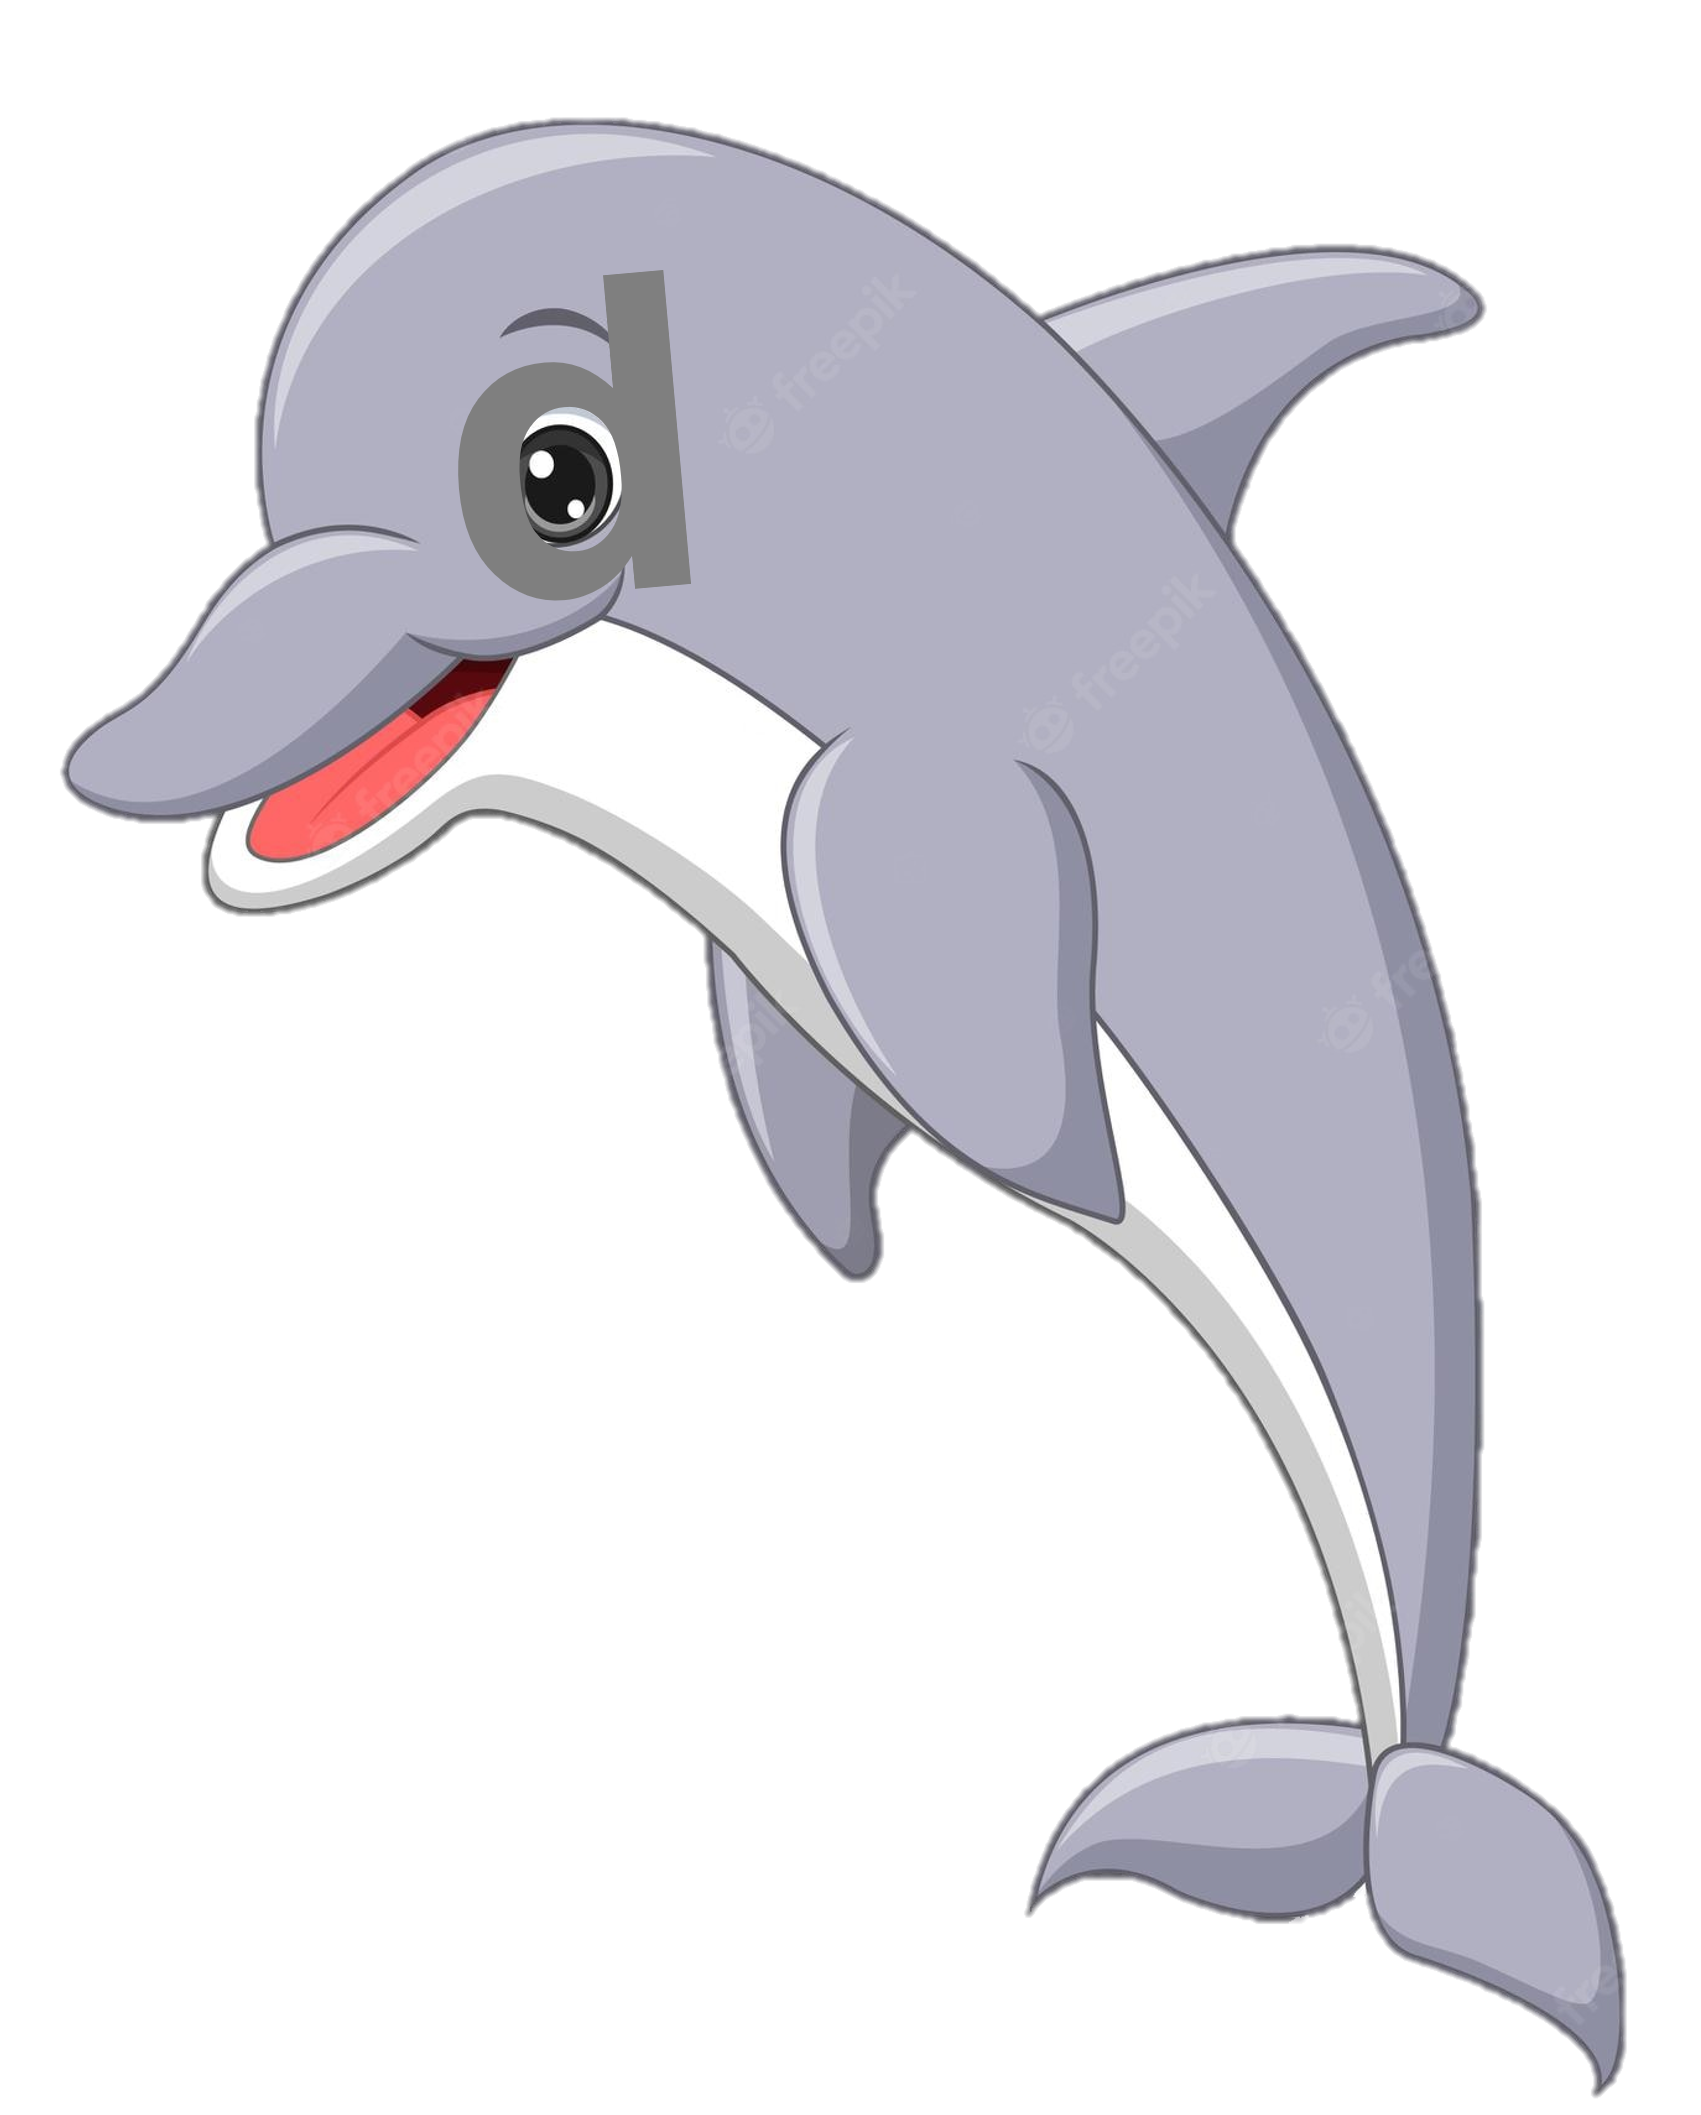
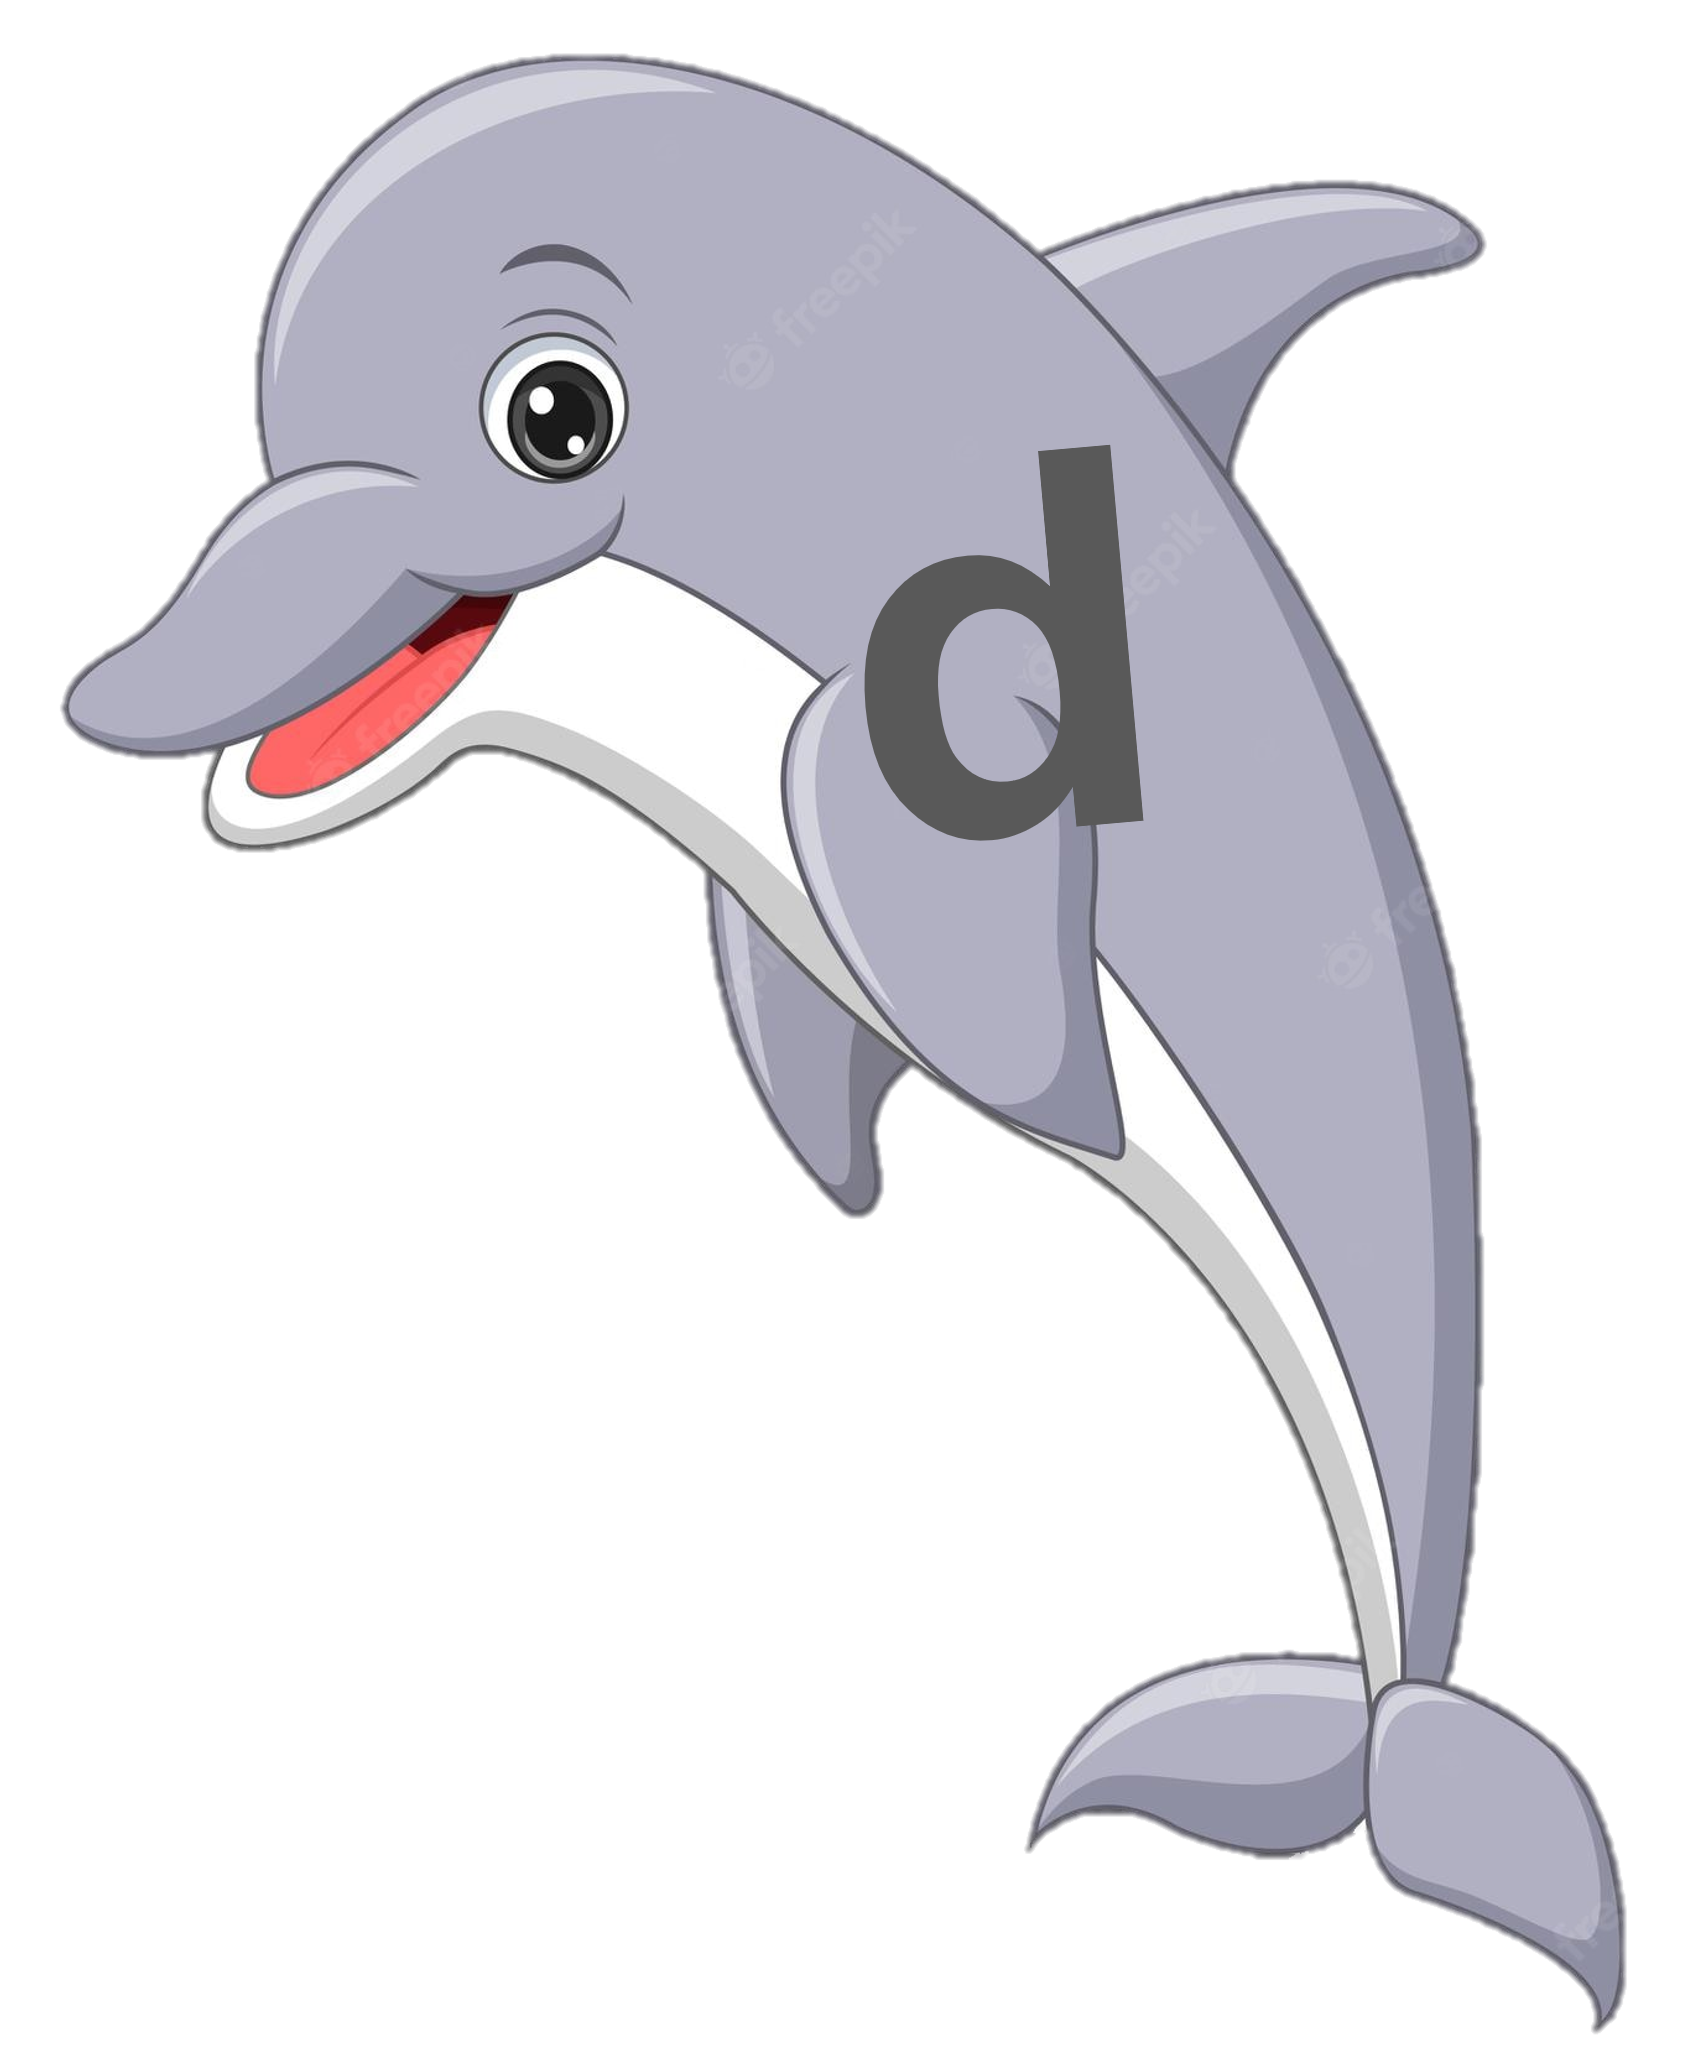
0.6.0

diff --git a/Disrexia/css/estilo-jirafas.css b/Disrexia/css/estilo-jirafas.css
@@ -80,73 +80,135 @@ section{
 
 .contenedor{
     border: solid 1px;
-    width: 950px;
-    height: 540px;
-    background-image: url(../img/fondo-monos2.jpg);
+    width: 1500px;
+    height: 550px;
+    background-image: url(../img/jirafa-fondo.jpg);
     background-size: cover;
-    display: flex;
-    flex-direction: column;
+  
 }
 
 .contenedor p{
     text-align: center;
-    color: white;
+    color: black;
     font-family: cursive;
     font-size: 30px;
 }
 
-.contenedor .frutas{
-    /* background-color: aliceblue; */
-    display: flex;
-    flex-direction: row;
-    /* margin-left: 68%; */
-    margin-top: -15%;
-}
-
-.contenedor .frutas img{
-    display: block;
-}
-
-.contenedor .frutas #banana{
-    margin-left: 20%;
-    margin-top: 10%;
-    width: 10%;
+.letter {
+    width: 150px;
+    height: 150px;
+    background-size: contain;
+    background-repeat: no-repeat;
+    background-position: center;
     cursor: pointer;
+    margin: 10px;
+    position: absolute;
 }
-
-.contenedor .frutas #pina{
-    margin-left: -60%;
-    margin-top: 10%;
-    width: 12%;
-    cursor: pointer;
+.letter-ardilla {
+    
+    background-image: url("../../img/ardilla.png");
+    top: 80%;
+    left: 68%;
 }
-
-.contenedor .frutas #mani{
-    margin-left: 40%;
-    margin-top: 10%;
-    width: 10%;
-    cursor: pointer;
+.letter-ballena{
+    background-image: url("../../img/ballena.png");
+    top: 80%;
+    left: 48%;
 }
-
-.contenedor .frutas #banana2{
-    margin-left: 40%;
-    margin-top: 10%;
-    width: 10%;
-    cursor: pointer;
+.letter-bici{
+    height: 18%;
+    background-image: url("../../img/bici.png");
+    top: 65%;
+    left: 8%;
 }
-
-.contenedor .mono{
-    /* background-color: aliceblue; */
-    margin-left: 38%;
-    margin-top: 10%;
+.letter-botas{
+    background-image: url("../../img/botas.png");
+    top: 67%;
+    left: -2%;
 }
-
-.contenedor .mono img{
-    width: 30%;
-    cursor: pointer;
-    display: block;
+.letter-buho1{
+    background-image: url("../../img/buho1.png");
+    top: 27%;
+    left: 68%;
 }
-
+.letter-cocodrilo{
+    background-image: url("../../img/cocodrilo.png");
+    top: 80%;
+    left: 4%;
+}
+.letter-caballo{
+    background-image: url("../../img/caballo.png");
+    top: 67%;
+    left: 60%;
+}
+.letter-delfin{
+    background-image: url("../../img/delfin.png");
+    top: 75%;
+    left: 20%;
+}
+.letter-dados1{
+    background-image: url("../../img/dados1.png");
+    top: 25%;
+    left: 55%;
+}
+.letter-durazno{
+    background-image: url("../../img/durazno.png");
+    height: 16%;
+    top: 30%;
+    left: 17%;
+}
+.letter-dinos{
+    background-image: url("../../img/dinos.png");
+    
+    top: 40%;
+    left: 5%;
+}
+.letter-elefant{
+    background-image: url("../../img/elefant.png");
+    
+    top: 65%;
+    left: 35%;
+}
+.letter-foca{
+    background-image: url("../../img/foca.png");
+    
+    top: 80%;
+    left: 15%;
+}
+.letter-jirafales{
+    background-image: url("../../img/jirafales.png");
+    top: 60%;
+    left: 47%;
+}
+.letter-koala{
+    background-image: url("../../img/koala.png");
+    top: 50%;
+    left: 15%;
+}
+.letter-mapache{
+    background-image: url("../../img/mapache.png");
+    top: 50%;
+    left: 25%;
+}
+.letter-patos{
+    height: 15%;
+    width: 9%;
+    background-image: url("../../img/patos.png");
+    top: 87%;
+    left: 30%;
+}
+.letter-perezoso{
+    background-image: url("../../img/perezoso.png");
+    top: 87%;
+    left: 30%;
+}
+.letter-pez{
+    height: 15%;
+    width: 9%;
+    background-image: url("../../img/pez.png");
+    top: 87%;
+    left: 40%;
+}
 .contenedor .botones{
     display: flex;
     flex-direction: row;
@@ -173,6 +235,7 @@ button {
 }
 
 .marcador{
+    border: solid 1px black; 
     width: 400px;
     height: 540px;
     background-image: url(../img/tronoco.png);
@@ -180,13 +243,14 @@ button {
 }
 
 .marcador img{
-    width: 85%;
-    margin-left: 10%;
+    /* background-color: aqua; */
+    width:100%;
+    /* margin-left: -11%; */
 }
 
 .marcador p{
     text-align: center;
-    color: white;
+    color: yellow;
     font-family: cursive;
     font-size: 50px;
 }

diff --git a/Disrexia/evaluación/jirafas/jirafas.html b/Disrexia/evaluación/jirafas/jirafas.html
@@ -36,30 +36,35 @@
     <section>
       <div class="contenedor">
 
-        <p><b>El mono quiere comer su platanao ayudalo a saber en que direccion se encuentra</b></p>
+        <p><b>Ayuda a la jirafa a encontrar las letras "b", "d", "p" y "q". Da click en la letra encontrda</b></p>
+       
+        <div class="letter letter-ardilla"></div>
+        <div class="letter letter-ballena"></div>
+        <div class="letter letter-bici"></div>
+        <div class="letter letter-botas"></div>
+        <div class="letter letter-buho1"></div>
+        <div class="letter letter-cocodrilo"></div>
+        <div class="letter letter-caballo"></div>
+        <div class="letter letter-delfin"></div>
+        <div class="letter letter-dados1"></div>
+        <div class="letter letter-durazno"></div>
+        <div class="letter letter-dinos"></div>
+        <div class="letter letter-elefant"></div>
+        <div class="letter letter-foca"></div>
+        <div class="letter letter-jirafales"></div>
+        <div class="letter letter-koala"></div>
+        <div class="letter letter-mapache"></div>
+        <div class="letter letter-patos"></div>
+        <div class="letter letter-perezoso"></div>
+        <div class="letter letter-pez"></div>
 
-        <div id="frutas" class="frutas">
-          <img id="banana" class="banana" src="../../img/" alt="" onclick="reproducirSonidoIzquierda()">
-		      <audio id="sonido-izquierda" src="../../audios/izquierda.mp3"></audio>
-          <img id="mani" class="mani" src="../../img/" alt="" onclick="reproducirSonidoIzquierda()">
-		      <audio id="sonido-izquierda" src="../../audios/izquierda.mp3"></audio>
-          <img id="pina" class="pina" src="../../img/" alt="" onclick="reproducirSonidoIzquierda()">
-          <img id="banana2" class="banana2" src="../../img/banana.png" alt="" onclick="reproducirSonidoIzquierda()">
-        </div>
 
-        <div class="mono">
-          <img src="../../img/.png" alt="">
-        </div>
 
-        <!-- <div class="botones">
-          <button id="izquierda">Izquierda</button>
-          <button id="derecha">Derecha</button>
-        </div> -->
 
       </div>
 
       <div class="marcador">
-        <img src="../../img/puntaje.png" alt="">
+        <img src="../../img/puntuaje-jirafa.png" alt="">
         <br>
         <p id="puntaje"></p>
       </div>

diff --git a/Disrexia/ejercicios/letraB/zoologicob.html b/Disrexia/ejercicios/letraB/zoologicob.html
@@ -6,10 +6,10 @@
     <title>Ejercicio de identificación de letras</title>
     <style>
         .btn-img {
-  position: absolute;
-  top: 0;
-  right: 0;
-}
+            position: absolute;
+            top: 0;
+             right: 0;
+            }
         body {
             background-image: url("../imagenes/zoologico.jpg");
             background-size: cover;
